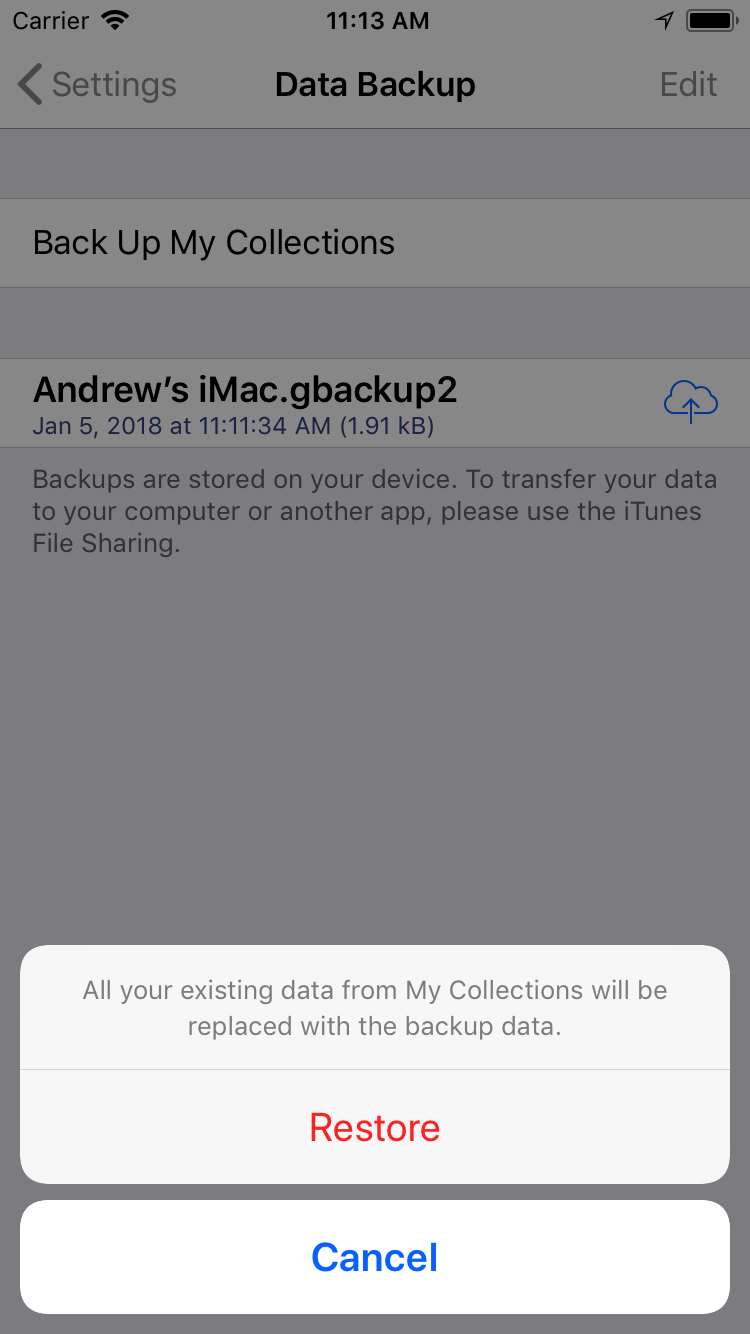
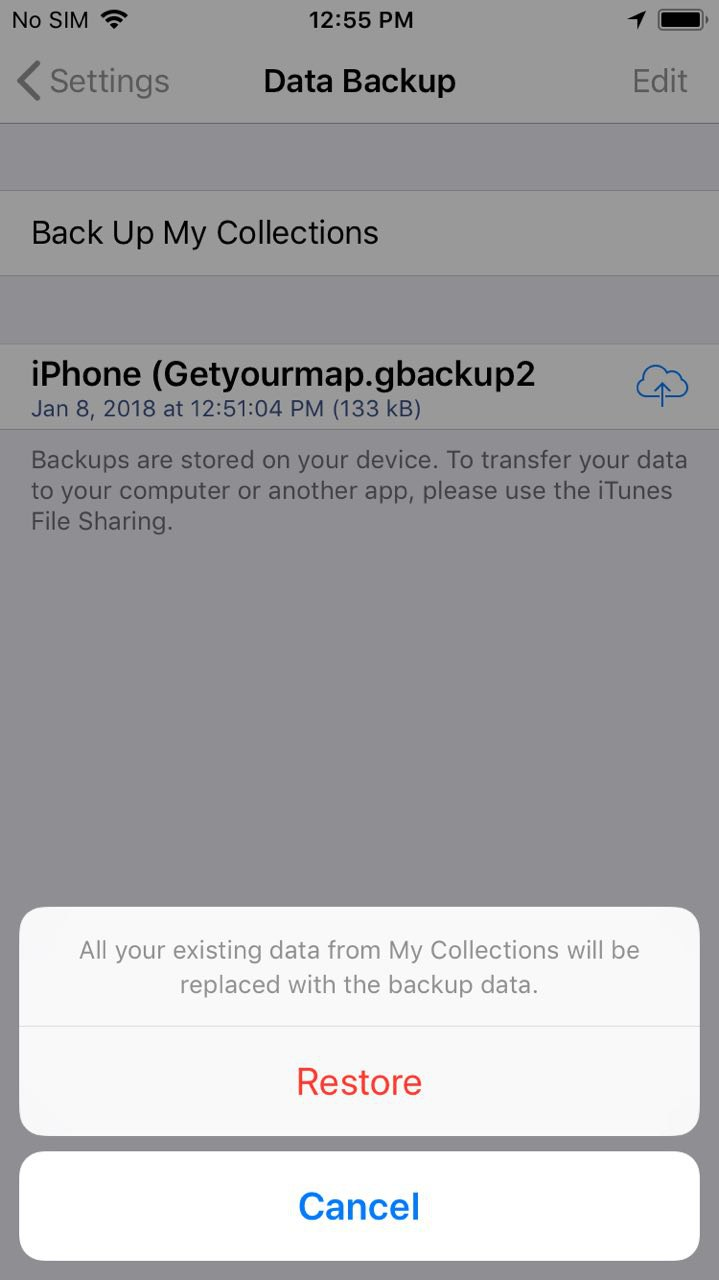
Updates 03-settings.md
Auto commit by GitBook Editor

diff --git a/03-settings.md b/03-settings.md
@@ -202,13 +202,13 @@ Backups are stored on your device and will be removed automatically when the app
 
 The best way to keep your backups available across all your iOS devices is to use the Files app. There you can set up your other cloud services (Box, Dropbox, OneDrive, Adobe Creative Cloud, Google Drive, etc) to access them in the Files app too.
 
-![](/assets/Simulator Screen Shot - iPhone 7 - 2018-01-05 at 11.12.50.png)
+![](/assets/data_backup_share.png)
 
 #### Restore from a backup
 
 Tap the backup you created earlier in the list on Data Backup screen to restore from, or select .gbackup file from the Files app or from other cloud service.
 
-![](/assets/Simulator Screen Shot - iPhone 7 - 2018-01-05 at 11.13.51.png)
+![](/assets/data_backup_restore.png)
 
 **Note**: restoring from backup will remove all current bookmarks and GPS tracks in My Collections.
 
